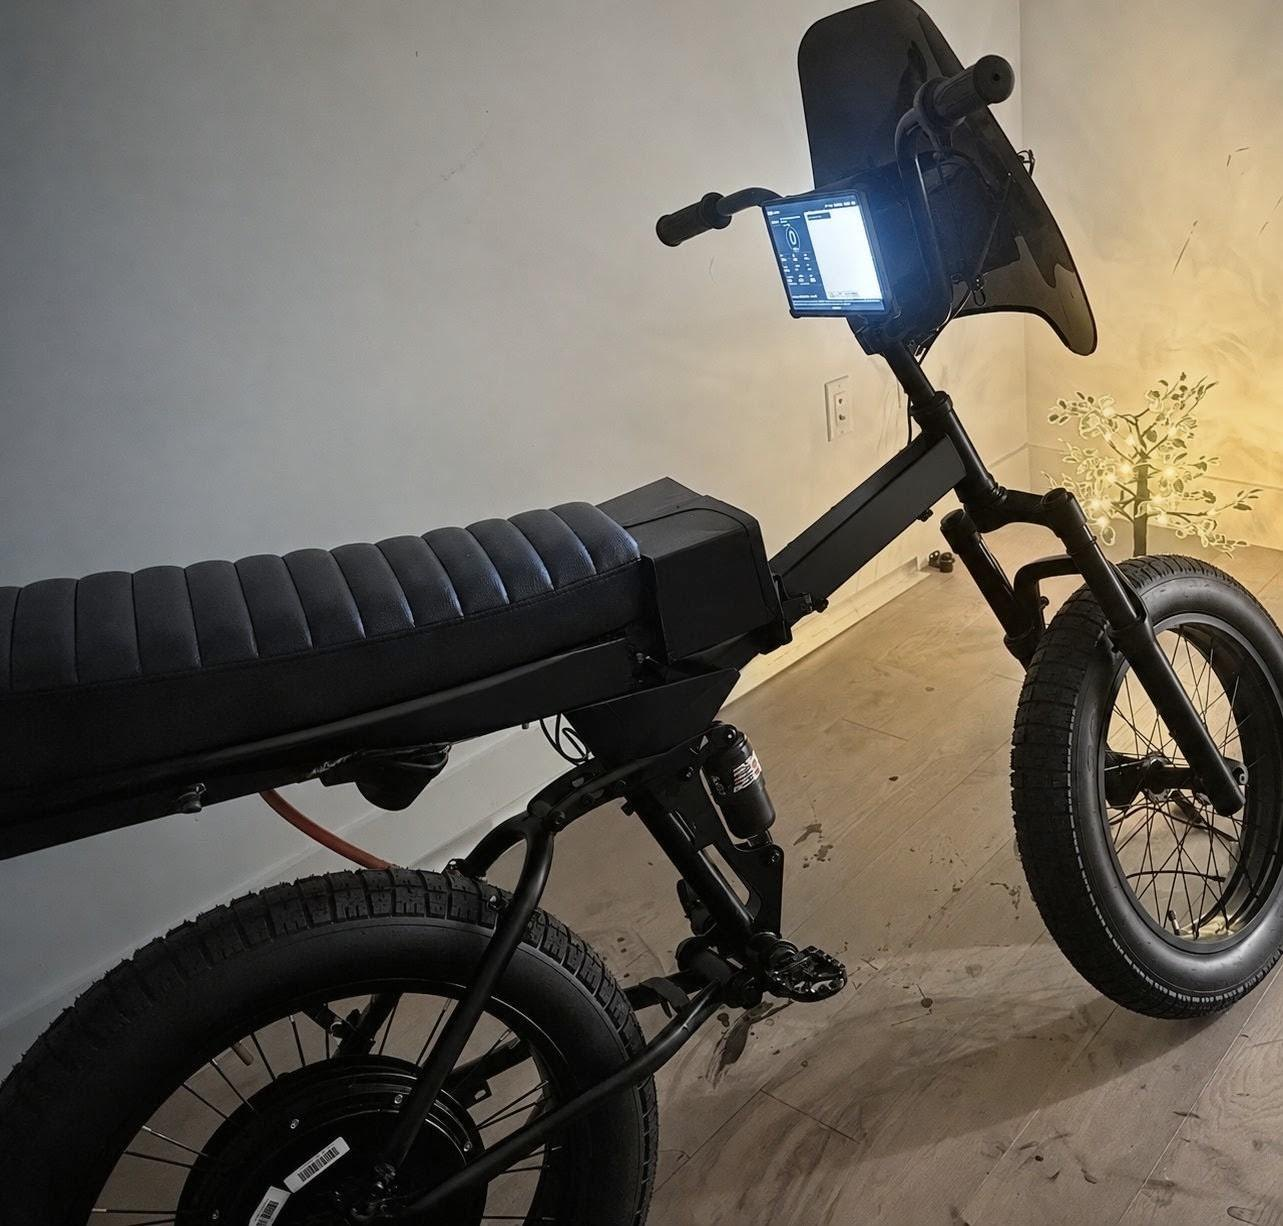
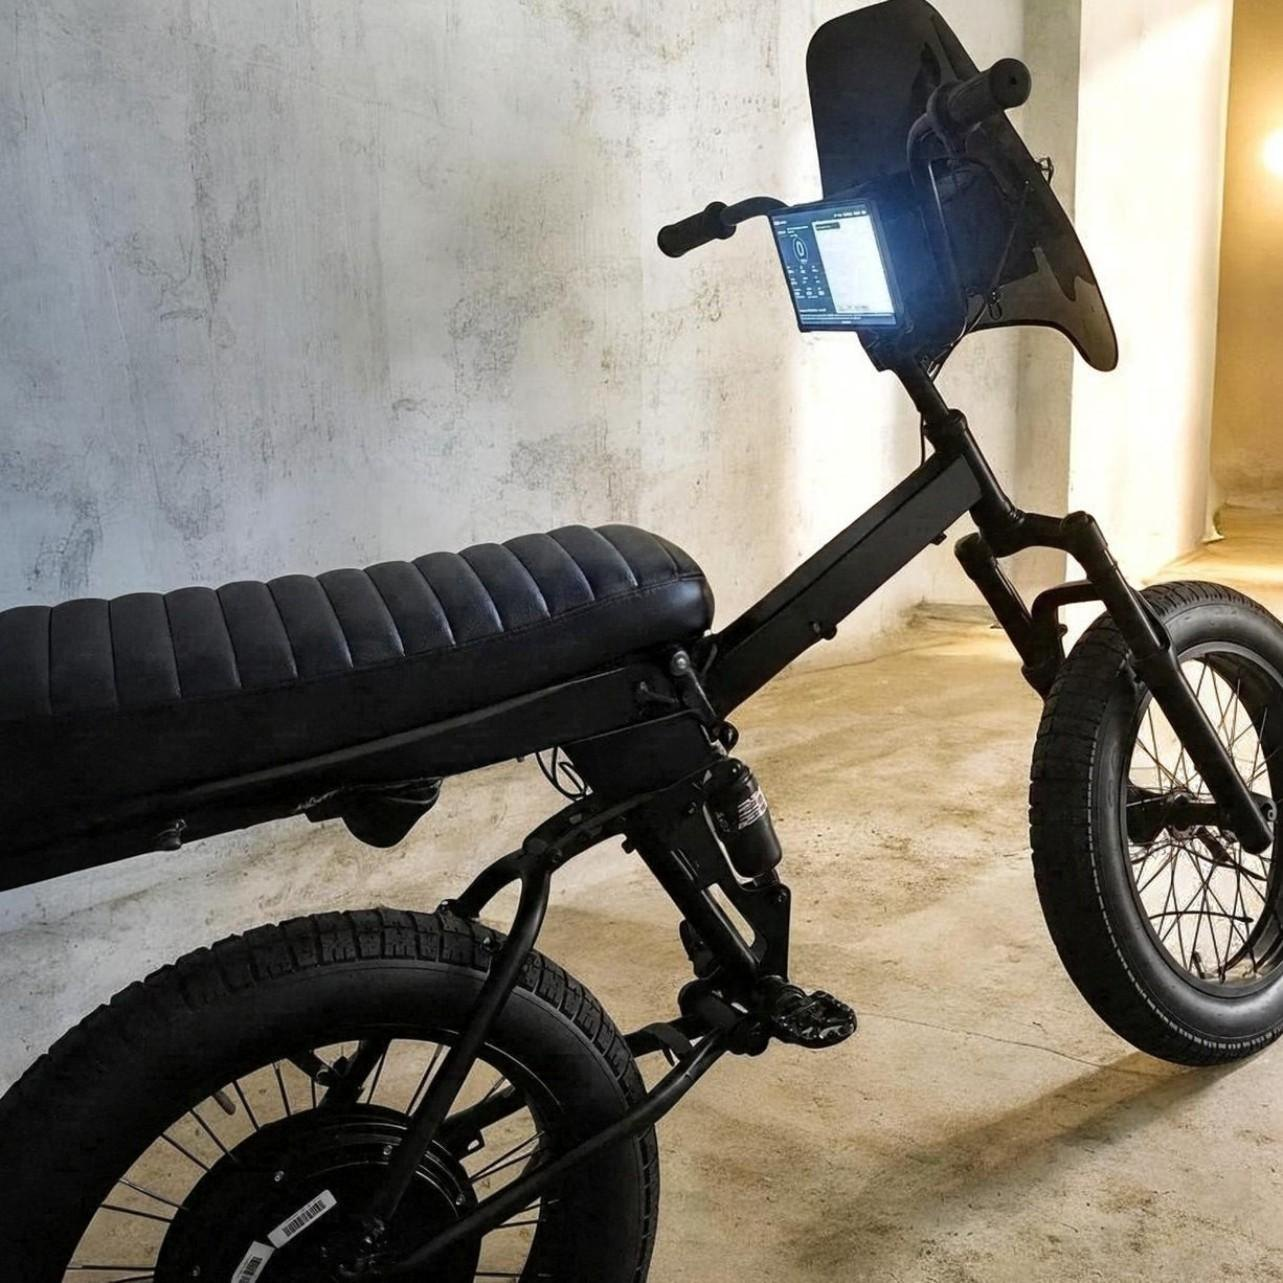
Update Dev Diary with the new photo, date, braces, quick-release, and the first run of 70.

diff --git a/index.html b/index.html
@@ -20,7 +20,7 @@
   <link rel="preconnect" href="https://fonts.googleapis.com" />
   <link rel="preconnect" href="https://fonts.gstatic.com" crossorigin />
   <link href="https://fonts.googleapis.com/css2?family=Inter:wght@400;500;600;700&display=swap" rel="stylesheet" />
-  <link rel="stylesheet" href="css/styles.css?v=type4" />
+  <link rel="stylesheet" href="css/styles.css?v=type5" />
   <script>document.documentElement.classList.add("js-motion");</script>
   <script src="https://unpkg.com/globe.gl/dist/globe.gl.min.js"></script>
   <style>
@@ -276,14 +276,19 @@
   <section class="section" id="diary">
     <div class="section-inner">
       <h2 class="section-title">Dev Diary</h2>
+      <p class="diary-date">October 28, 2026</p>
       <figure class="diary-figure">
         <picture>
-          <source type="image/webp" srcset="assets/r/dev-diary-480.webp?v=orig1 480w, assets/r/dev-diary-768.webp?v=orig1 768w, assets/r/dev-diary-1100.webp?v=orig1 1100w, assets/r/dev-diary-1600.webp?v=orig1 1600w" sizes="(max-width: 900px) 100vw, 900px" />
-          <img src="assets/r/dev-diary.jpg?v=orig1" alt="Puca rebuilt: lighter, modular, with MagSafe phone and windscreen holders" width="1440" height="1376" loading="lazy" decoding="async" />
+          <source type="image/webp" srcset="assets/r/dev-diary-480.webp?v=oct28 480w, assets/r/dev-diary-768.webp?v=oct28 768w, assets/r/dev-diary-1100.webp?v=oct28 1100w, assets/r/dev-diary-1600.webp?v=oct28 1600w" sizes="(max-width: 900px) 100vw, 900px" />
+          <img src="assets/r/dev-diary.jpg?v=oct28" alt="Puca rebuilt in black, with MagSafe phone and windscreen holders" width="1283" height="1283" loading="lazy" decoding="async" />
         </picture>
       </figure>
       <div class="diary-copy">
         <p>I rebuilt Puca to be lighter, more modular, with MagSafe phone and windscreen holders. You can easily pick it up with one arm sans battery. Speaking of the new battery, it holds 8.2 kWh of energy at a weight of 59 pounds. The components have been curated to keep weight down as far as possible. All the parts are here, except for a one week wait on shipping the semi-solid NMC+ batteries from California to New York. This is the real deal. The production version I've spent almost four years of my life building.</p>
+        <p>Since this photo, I've added two support braces under the battery and seat. I'll be adding another two.</p>
+        <p>The front wheel also pops off with a quick-release system, for anyone who wants to pack it in normal-size luggage.</p>
+        <p>I stayed silent for a long time because I didn't want to over-promise. The first prototype taught me lessons about mechanics and weight distribution, and that is what let the production frame move so quickly. The first bike used 6061 aluminum. This time we opted for the slightly heavier carbon steel, because the tensile strength is exponentially stronger. We want a motorcycle that pays for itself roughly by the time the battery warranty expires.</p>
+        <p>We're doing an initial round of 70. <a href="#order">Pre-order yours here.</a></p>
       </div>
     </div>
   </section>

diff --git a/css/styles.css b/css/styles.css
@@ -2286,3 +2286,17 @@ html.js-motion .hero .reveal {
   line-height: 1.7;
   color: var(--text);
 }
+
+.diary-date {
+  text-align: center;
+  letter-spacing: 0.14em;
+  text-transform: uppercase;
+  font-size: 0.78rem;
+  font-weight: 600;
+  color: var(--muted, #9aa3ad);
+  margin: 0 0 0.85rem;
+}
+.diary-copy a {
+  color: var(--brake-red, #c41e3a);
+  font-weight: 600;
+}
